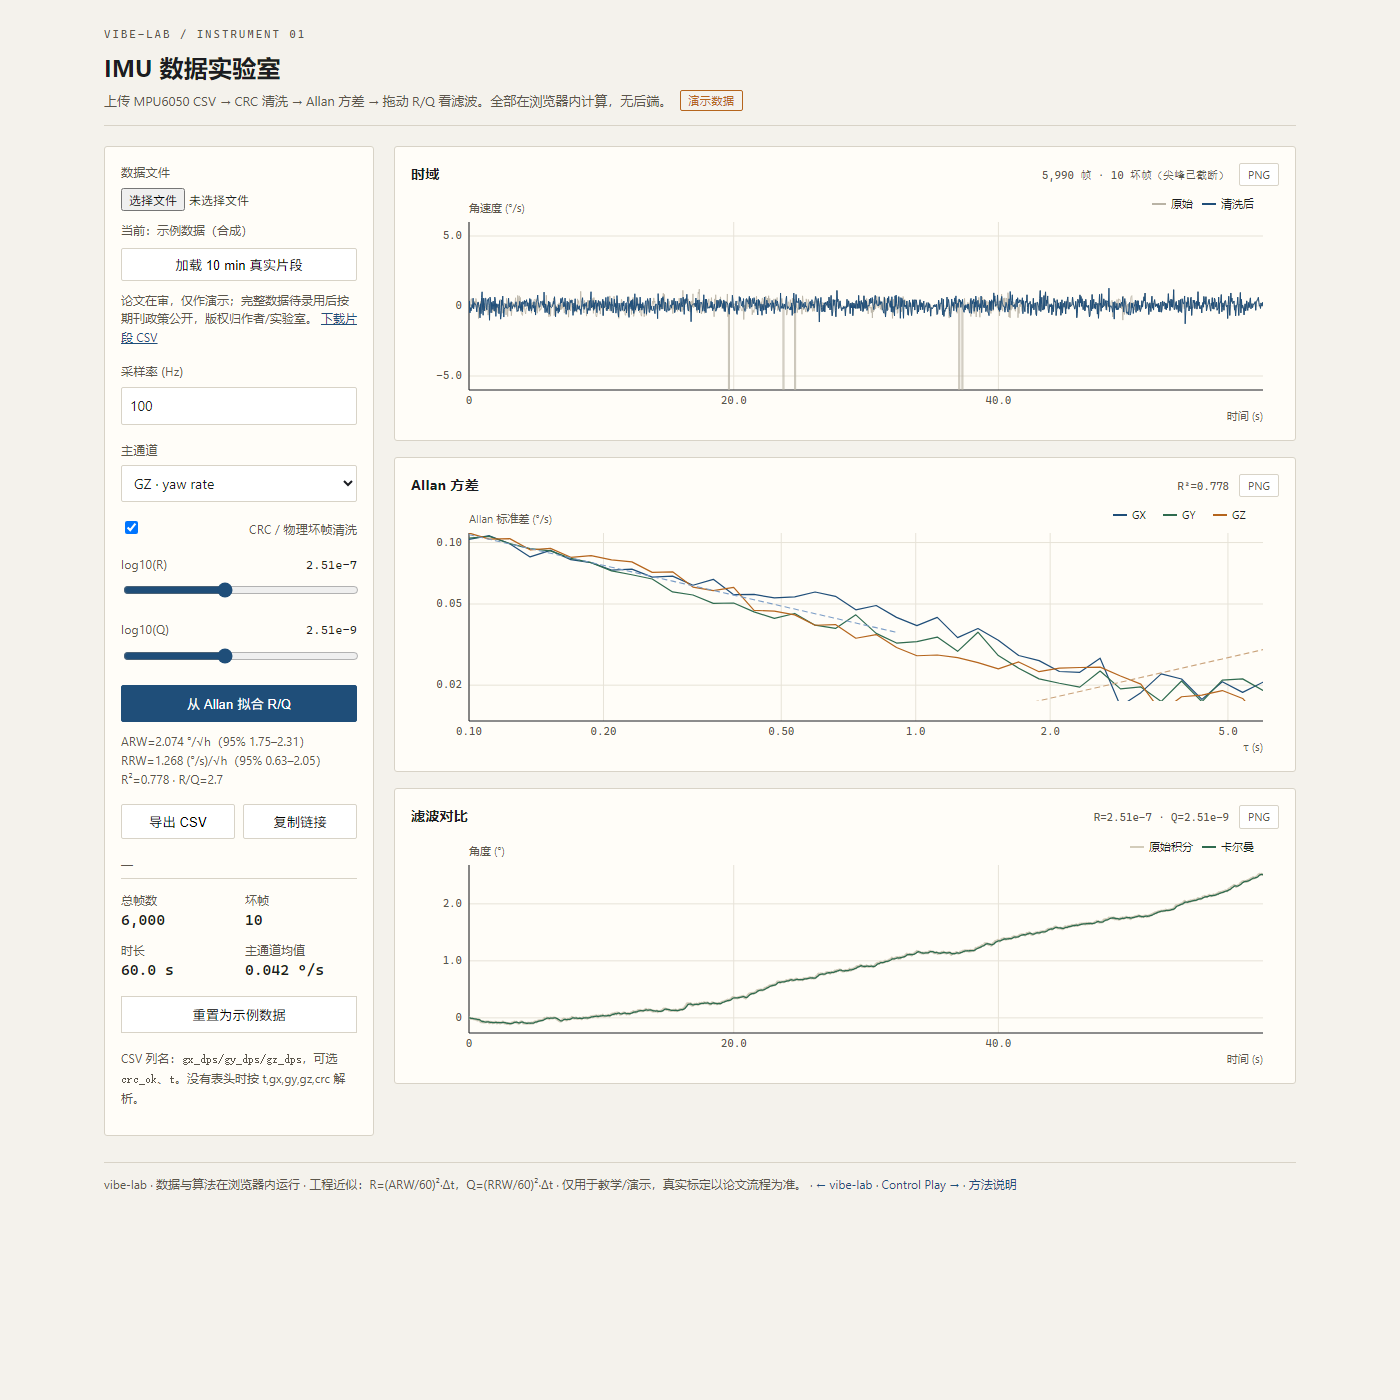
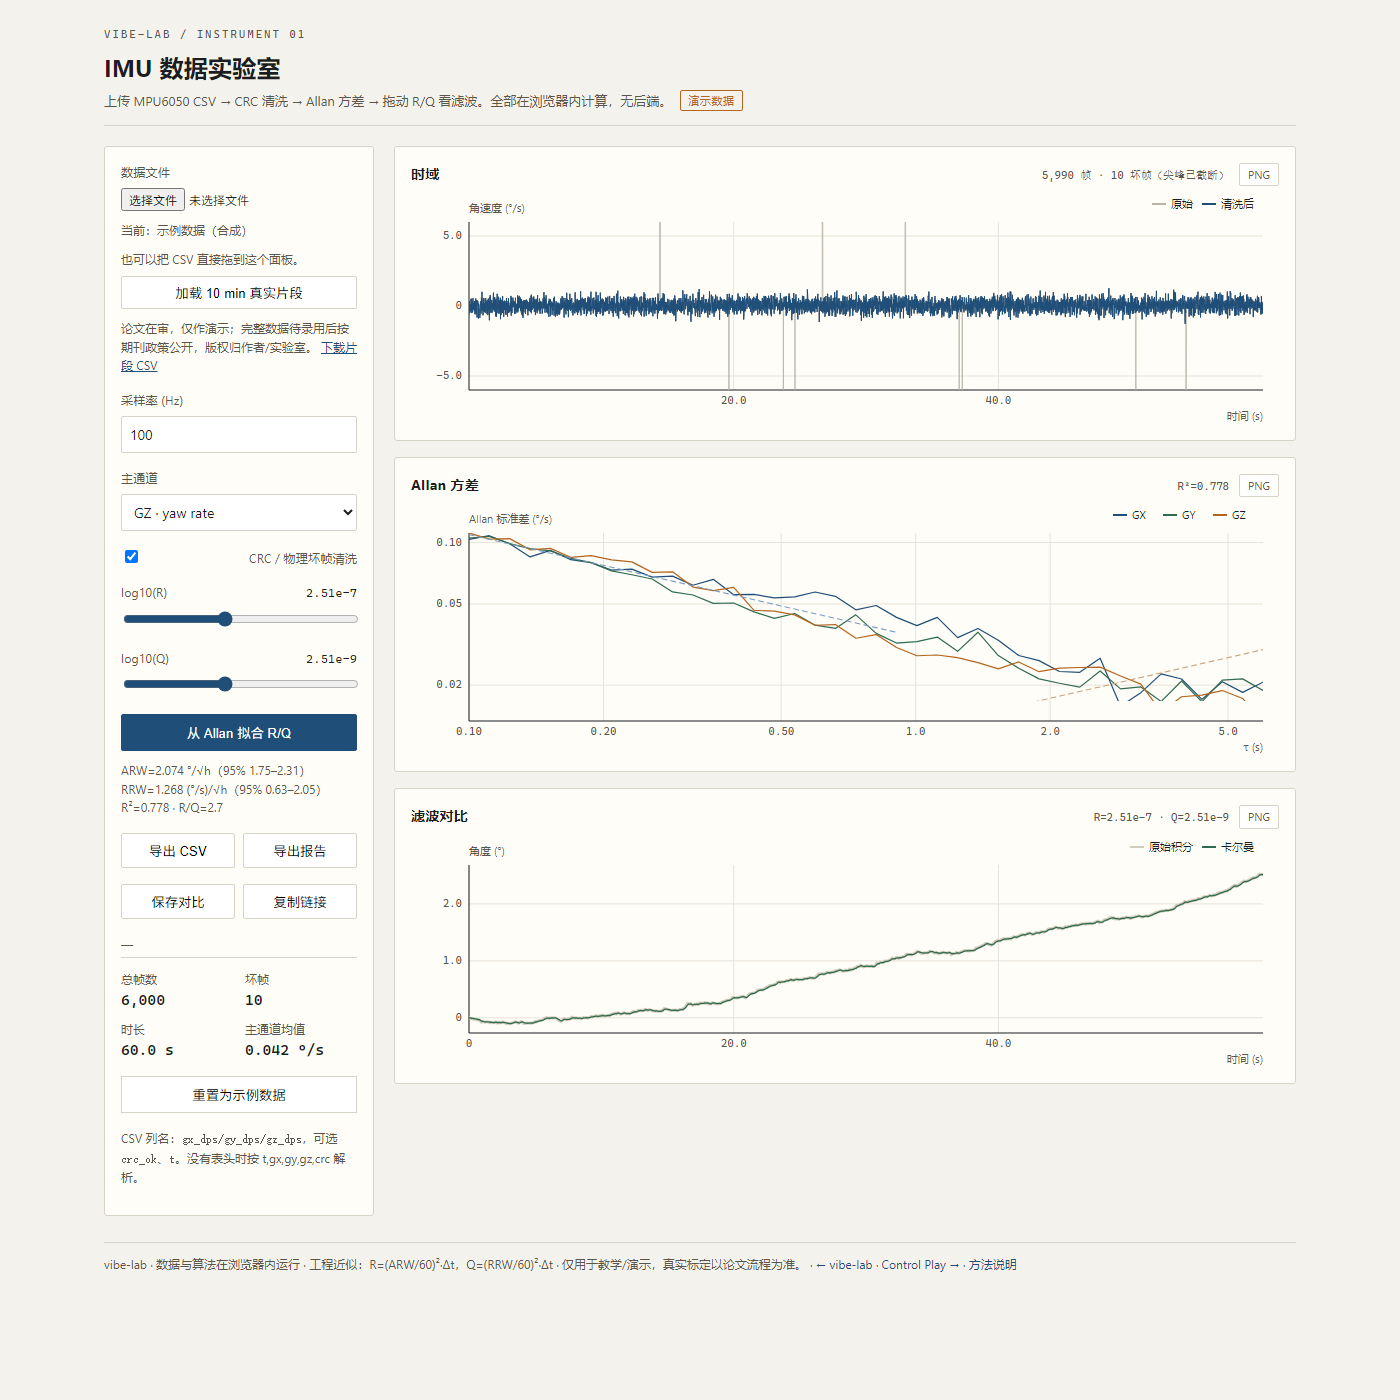
perf: stale-while-revalidate SW; docs: refresh preview

diff --git a/landing/sw.js b/landing/sw.js
@@ -1,5 +1,5 @@
 /* vibe-lab service worker: precache shell, offline fallback */
-const CACHE = "vibe-lab-v1";
+const CACHE = "vibe-lab-v2";
 const ASSETS = [
   "./",
   "./index.html",
@@ -42,18 +42,15 @@ self.addEventListener("fetch", (event) => {
   if (url.origin !== location.origin) return;
   if (/\.csv(\.gz)?$/.test(url.pathname)) return; // 不缓存数据文件
 
-  event.respondWith(
-    caches.match(req).then((hit) => {
-      if (hit) return hit;
-      return fetch(req)
-        .then((res) => {
-          if (res.ok) {
-            const copy = res.clone();
-            caches.open(CACHE).then((c) => c.put(req, copy));
-          }
-          return res;
-        })
-        .catch(() => caches.match("./imu/"));
-    })
-  );
+  event.respondWith((async () => {
+    const cache = await caches.open(CACHE);
+    const hit = await cache.match(req);
+    const network = fetch(req)
+      .then((res) => {
+        if (res.ok) cache.put(req, res.clone());
+        return res;
+      })
+      .catch(() => hit || caches.match("./imu/"));
+    return hit || network;
+  })());
 });
